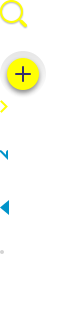
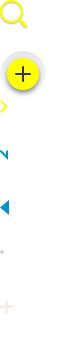
Added add link text to button in 2nd level links

diff --git a/Frontend/css/style.css b/Frontend/css/style.css
@@ -156,9 +156,13 @@ body{
                 }
 
                     #output ul li ul li a.add{
+                        overflow: hidden;
                         position: absolute;
                         z-index: 1000;
                         background: #e9dfd7;
+                        background-image: url( '../assets/LS_Styleguide.png' );
+                        background-repeat: no-repeat;
+                        background-position: 8px -292px;
                         margin: 8px 0 0 -13px;
                         height: 29px;
                         width: 29px;
@@ -167,7 +171,16 @@ body{
                         border: 3px #f1ece8 solid;
                         -webkit-transition: width 0.2s, margin 0.2s, background-color 0.2s;
                         transition: width 0.2s, margin 0.2s, background-color 0.2s;
-                    }    
+                    }   
+
+                    #output ul li ul li a.add span{
+                        font-size: 11px;
+                        font-weight: bold;
+                        color: #f1ece8;
+                        padding: 9px;
+                        width: 50px;
+                        margin-left: 20px;
+                    }
 
                     #output ul li ul li a.link{
                         position: relative;
@@ -186,8 +199,11 @@ body{
                 }
 
                     #output ul li ul li:hover a.add:hover{
-                        width: 100px;
+                        width: 90px;
                         background: #574c44;
-                        margin-left: -84px;
+                        margin-left: -74px;
+                        background-image: url( '../assets/LS_Styleguide.png' );
+                        background-repeat: no-repeat;
+                        background-position: 8px -292px;
                     }
 		

diff --git a/Frontend/index.html b/Frontend/index.html
@@ -23,19 +23,19 @@
 					<a href="link" class="mainlink">beyond-object.com<span>http://www.beyond-object.com/ </span></a>
 					<ul>
 						<li>
-                            <a class="add" href="#">&nbsp;</a>
+                            <a class="add" href="#"><span>Add Link</span></a>
                             <a class="link" href="tag1">tag 1</a>
                         </li>
 						<li>
-                            <a class="add" href="#">&nbsp;</a>
+                            <a class="add" href="#"><span>Add Link</span></a>
                             <a class="link" href="tag1">tag 1</a>
                         </li>
 						<li>
-                            <a class="add" href="#">&nbsp;</a>
+                            <a class="add" href="#"><span>Add Link</span></a>
                             <a class="link" href="tag1">tag 1</a>
                         </li>
 						<li>
-                            <a class="add" href="#">&nbsp;</a>
+                            <a class="add" href="#"><span>Add Link</span></a>
                             <a class="link" href="tag1">tag 1</a>
                         </li>
 					</ul>
